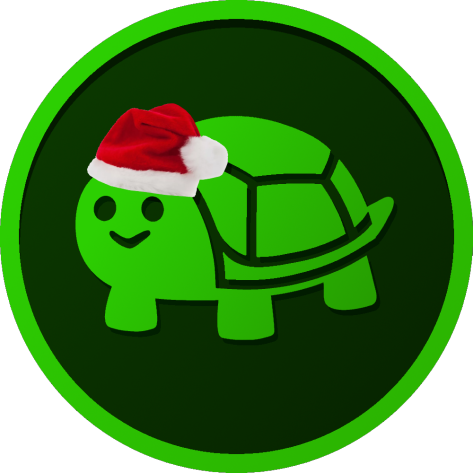
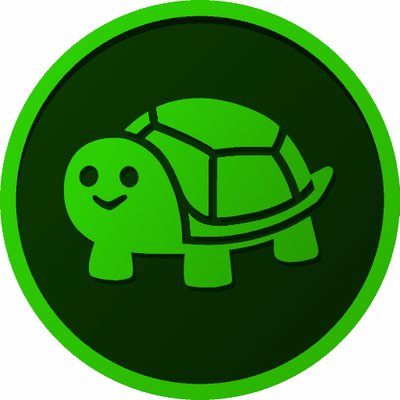
Some stuff
Added Blake to the About page, updated avatars for staff, removed some unneeded blobs.

diff --git a/_pages/about.html b/_pages/about.html
@@ -132,11 +132,25 @@ Meet our staff that help the community keep spinning. ...Spinning?
 <br>
 <img src="/images/staff/Cameron.jpg"  width="256" height="256">
 &nbsp;
-<h3>Likes: </h3>High quality memes, "lel", always being correct. 
-<h3>Dislikes: </h3>Jason, Apple, annoyance. 
+<h3>Likes: </h3>Always being correct, high quality memes, "lel". 
+<h3>Dislikes: </h3>Annoyance, Apple, J-Man. 
 <br>
 <br>
 <button class="button TwitterButton" type="button" onclick="window.location.href=`https://twitter.com/ntfluoride`">Twitter</button> <button class="button WebsiteButton" type="button" onclick="window.location.href=`https://www.bnbdiscord.net`">Website</button> <button class="button YouTubeButton" type="button" onclick="window.location.href=`https://www.youtube.com/channel/UCGZrTrbjzcuMJdOpqyCpRMQ`">YouTube</button>
+
+<br>
+<br>
+
+<h2>Nevulo - Moderator</h2>
+<br>
+<br>
+<img src="/images/staff/Nevulo.jpg"  width="256" height="256">
+&nbsp;
+<h3>Likes: </h3>Dank stuff, hot stuff, phallic stuff, stuff stuff. 
+<h3>Dislikes: </h3>Apple earphones, doors, Git, Victor.
+<br>
+<br>
+<button class="button TwitterButton" type="button" onclick="window.location.href=`https://twitter.com/Nevvulo`">Twitter</button> <button class="button WebsiteButton" type="button" onclick="window.location.href=`https://absolute-legend.zblake.xyz/`">Website</button>
 
 <br>
 <br>

diff --git a/_includes/footer/custom.html b/_includes/footer/custom.html
@@ -14,6 +14,22 @@ a:hover {
 a:active {
   color: rgb(255, 255, 255);
 }
+
+a.uwu:link {
+  color: #1a1d24;
+}
+
+a.uwu:visited {
+  color: #1a1d24;
+}
+
+a.uwu:hover {
+  color: #1a1d24;
+}
+
+a.uwu:active {
+  color: #1a1d24;
+}
 </style>
 
-<div class="page__footer-copyright">&copy; 2018-2019 bits & Bytes | Living and breathing thanks to <a href="https://jekyllrb.com" rel="nofollow">Jekyll</a> &amp; <a href="https://mademistakes.com/work/minimal-mistakes-jekyll-theme/" rel="nofollow">Minimal Mistakes</a> | Get some cute blobs <a href="https://blobs.gg/">here</a>.</div>
+<div class="page__footer-copyright">&copy; 2018-2019 bits & Bytes | Living and breathing thanks to <a href="https://jekyllrb.com" rel="nofollow">Jekyll</a> &amp; <a href="https://mademistakes.com/work/minimal-mistakes-jekyll-theme/" rel="nofollow">Minimal Mistakes</a> | Get some cute blobs <a href="https://blobs.gg/">here</a>. <a class="uwu" href="https://www.youtube.com/watch?v=SaA_cs4WZHM" rel="nofollow">uwu hidden text!!!</a></div>
